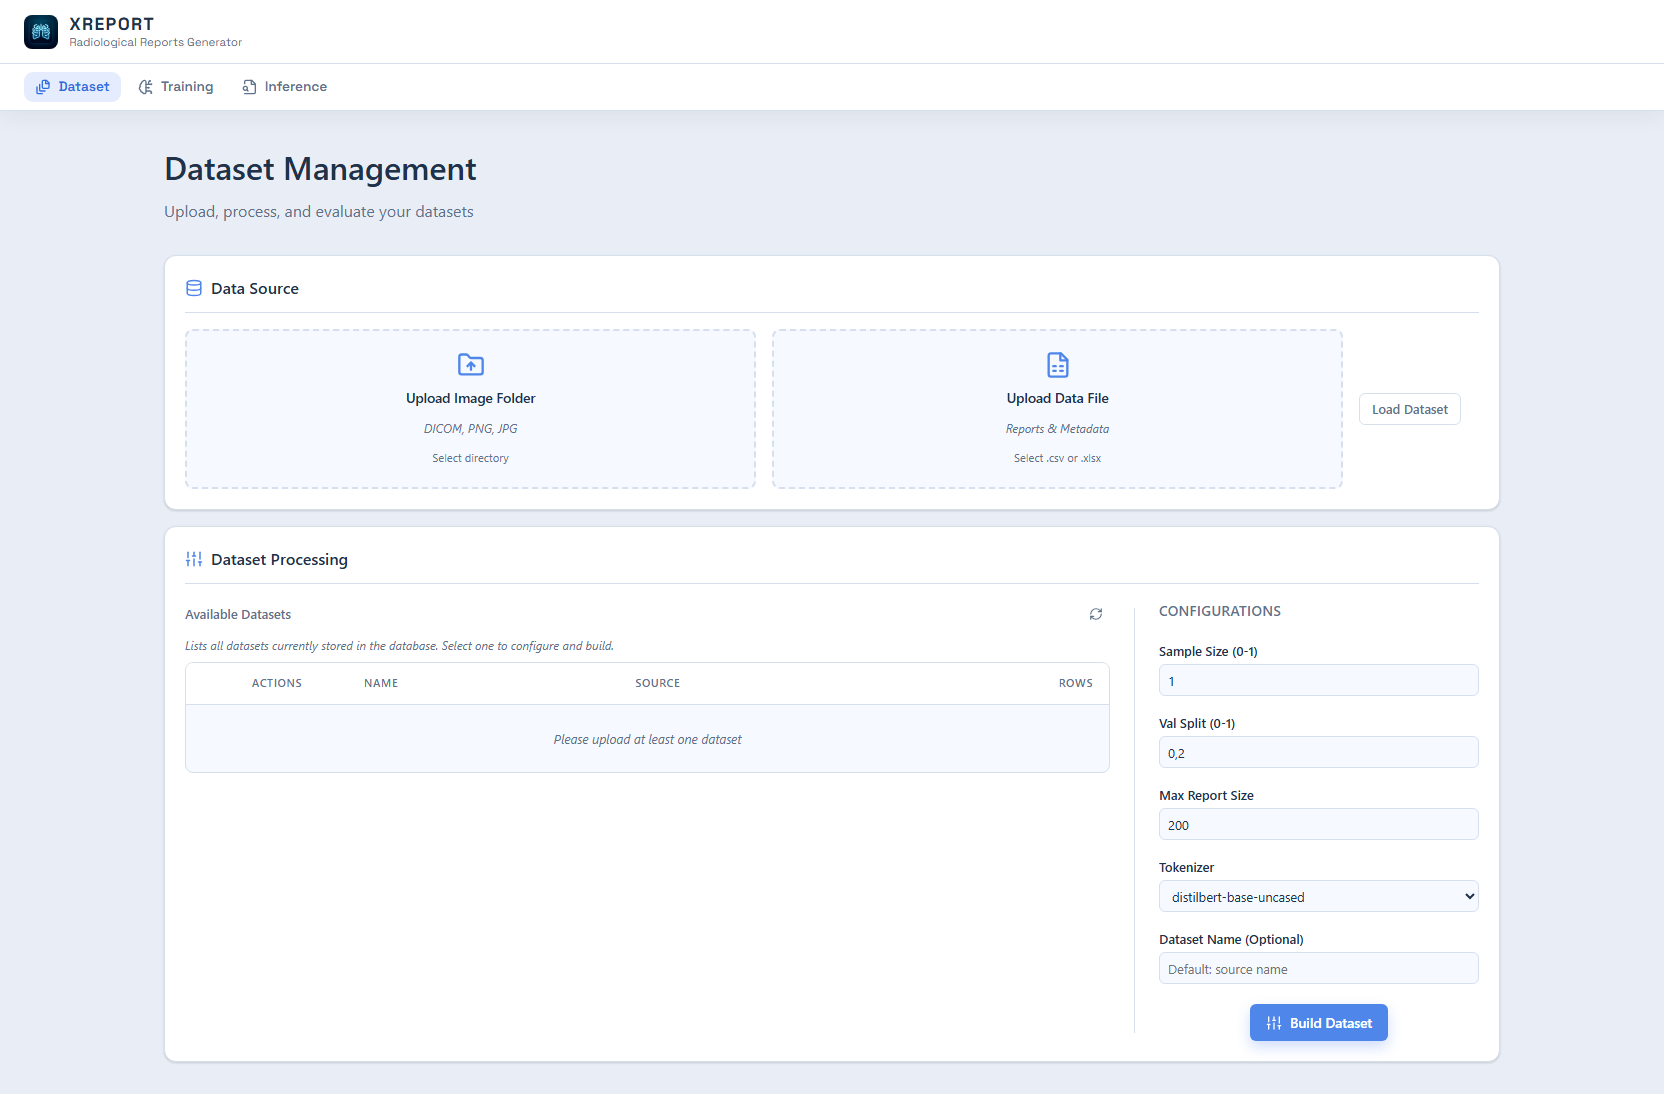
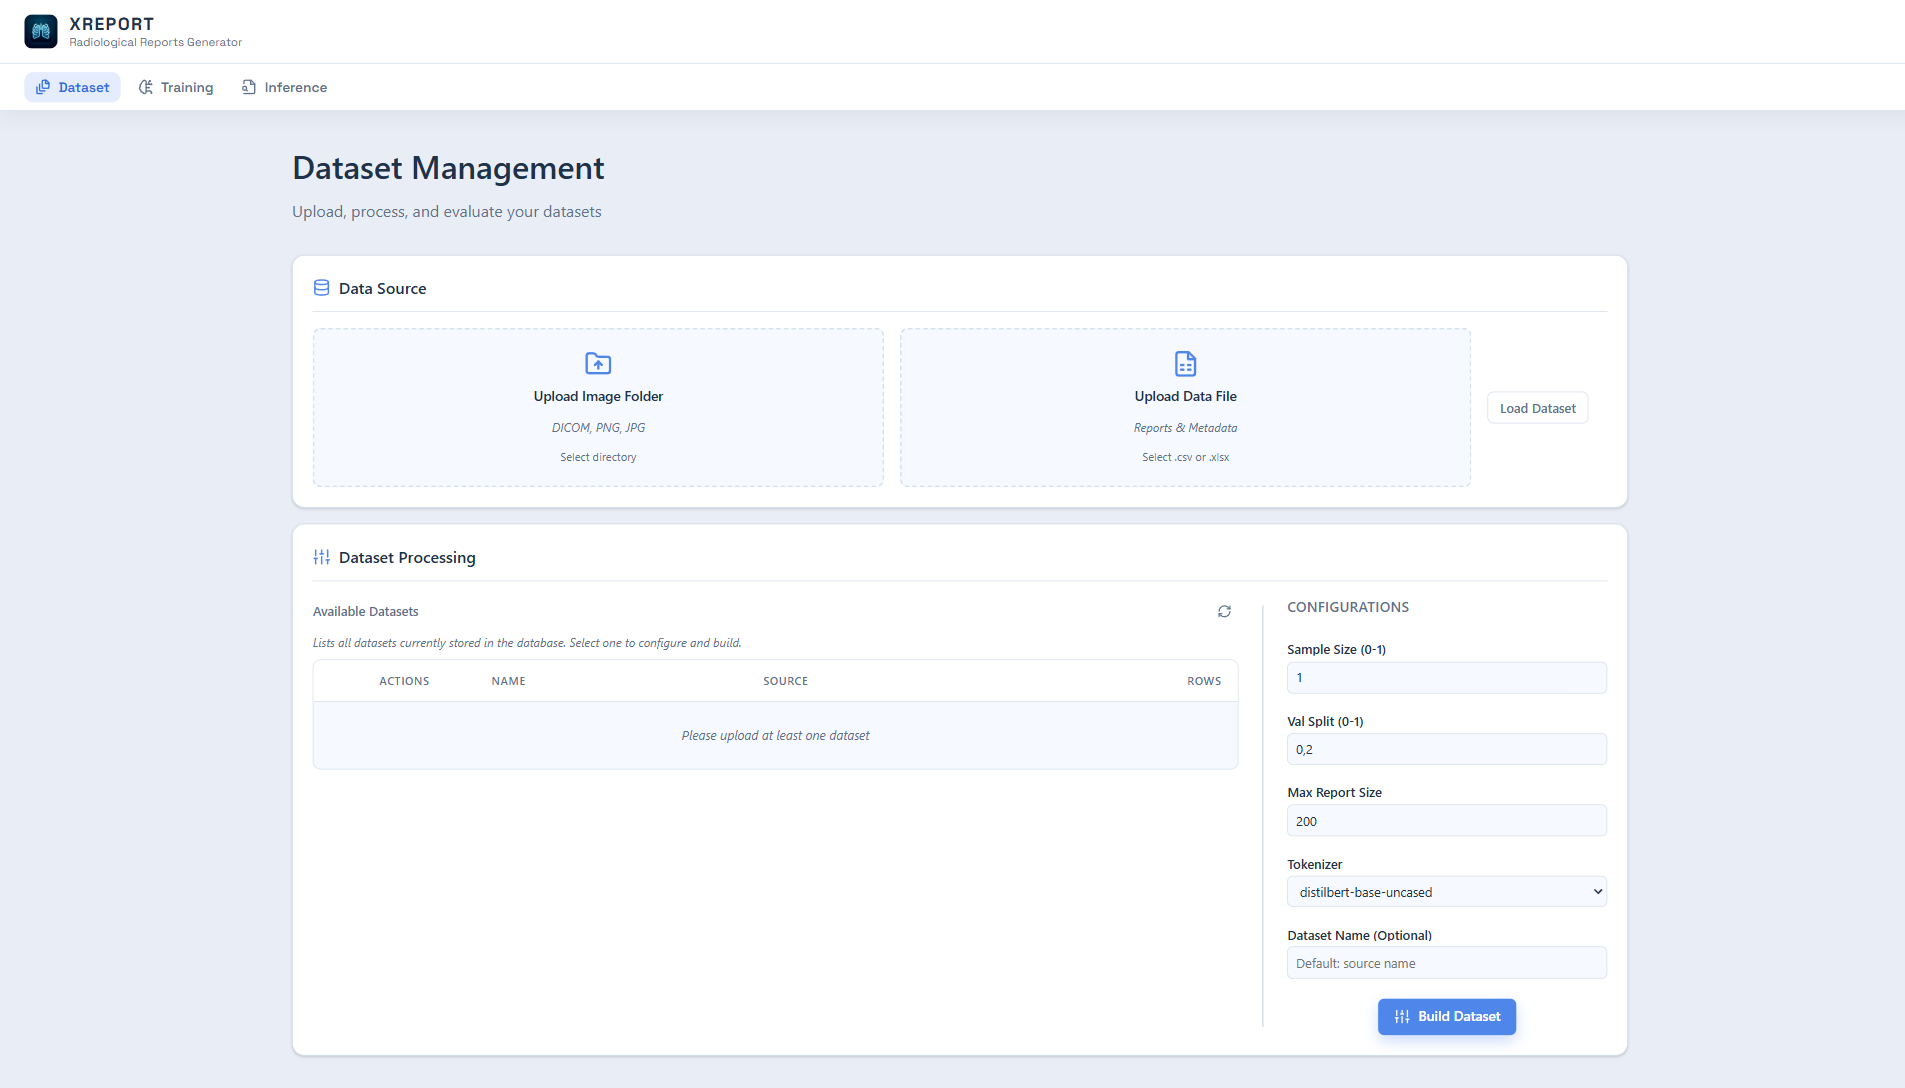
docs: refresh README screenshots from live app capture

diff --git a/README.md b/README.md
@@ -194,7 +194,7 @@ For packaging/runtime details see `assets/docs/PACKAGING_AND_RUNTIME_MODES.md`.
 
 ## 8. Screenshots
 
-The following screenshots were generated from a live local run and stored in `assets/figures/` (see `assets/figures/manifest.json` for route, viewport, and capture metadata).
+The following screenshots were generated from a live local run on 2026-03-31 and stored in `assets/figures/` (see `assets/figures/manifest.json` for route, viewport, and capture metadata). Captures are full-page to preserve complete UI context.
 
 ### Dataset List
 
